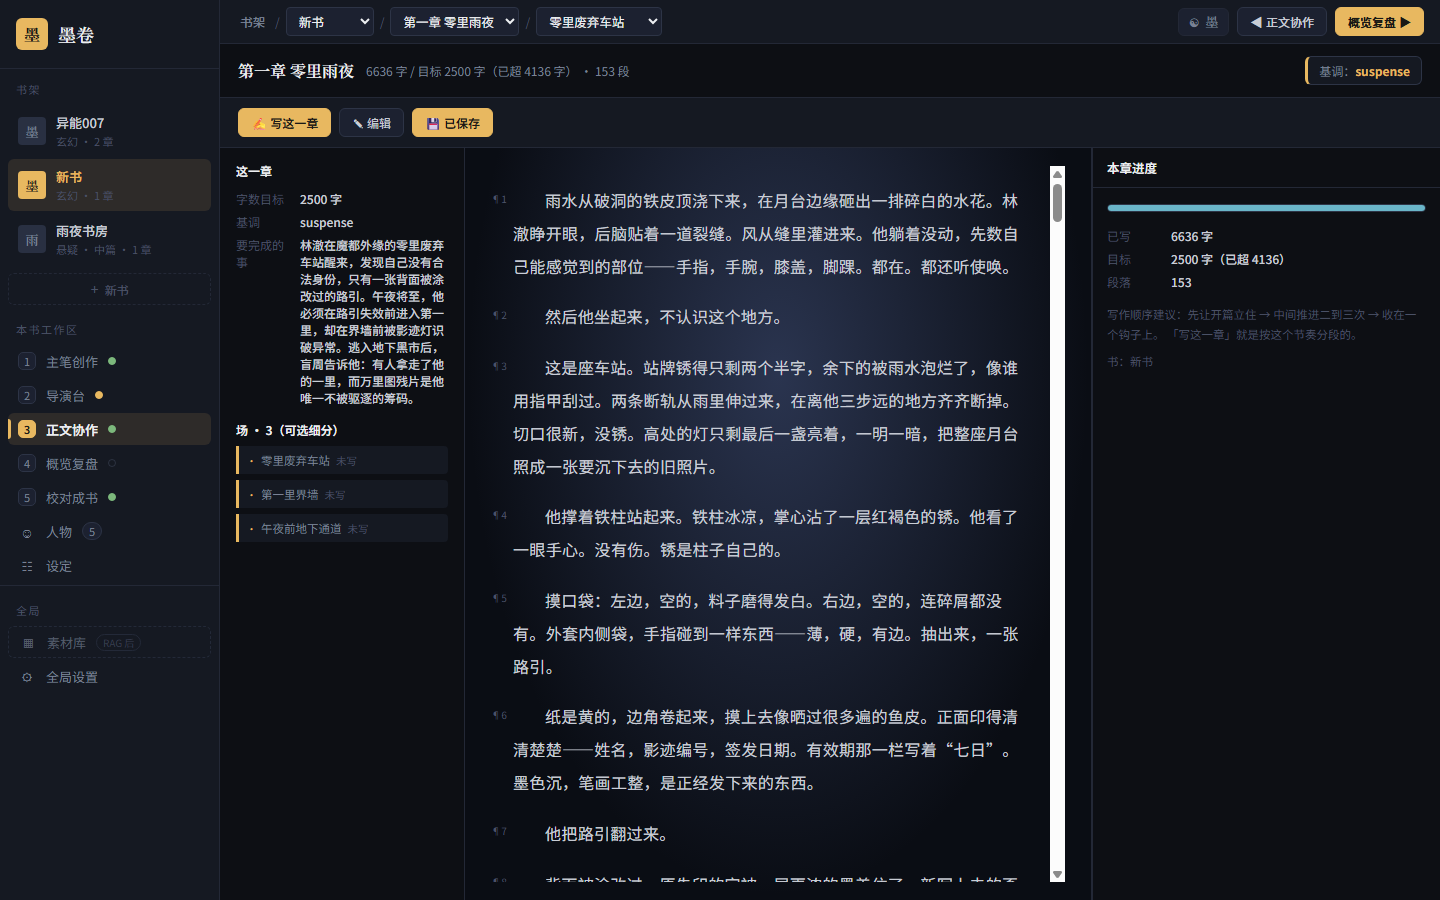
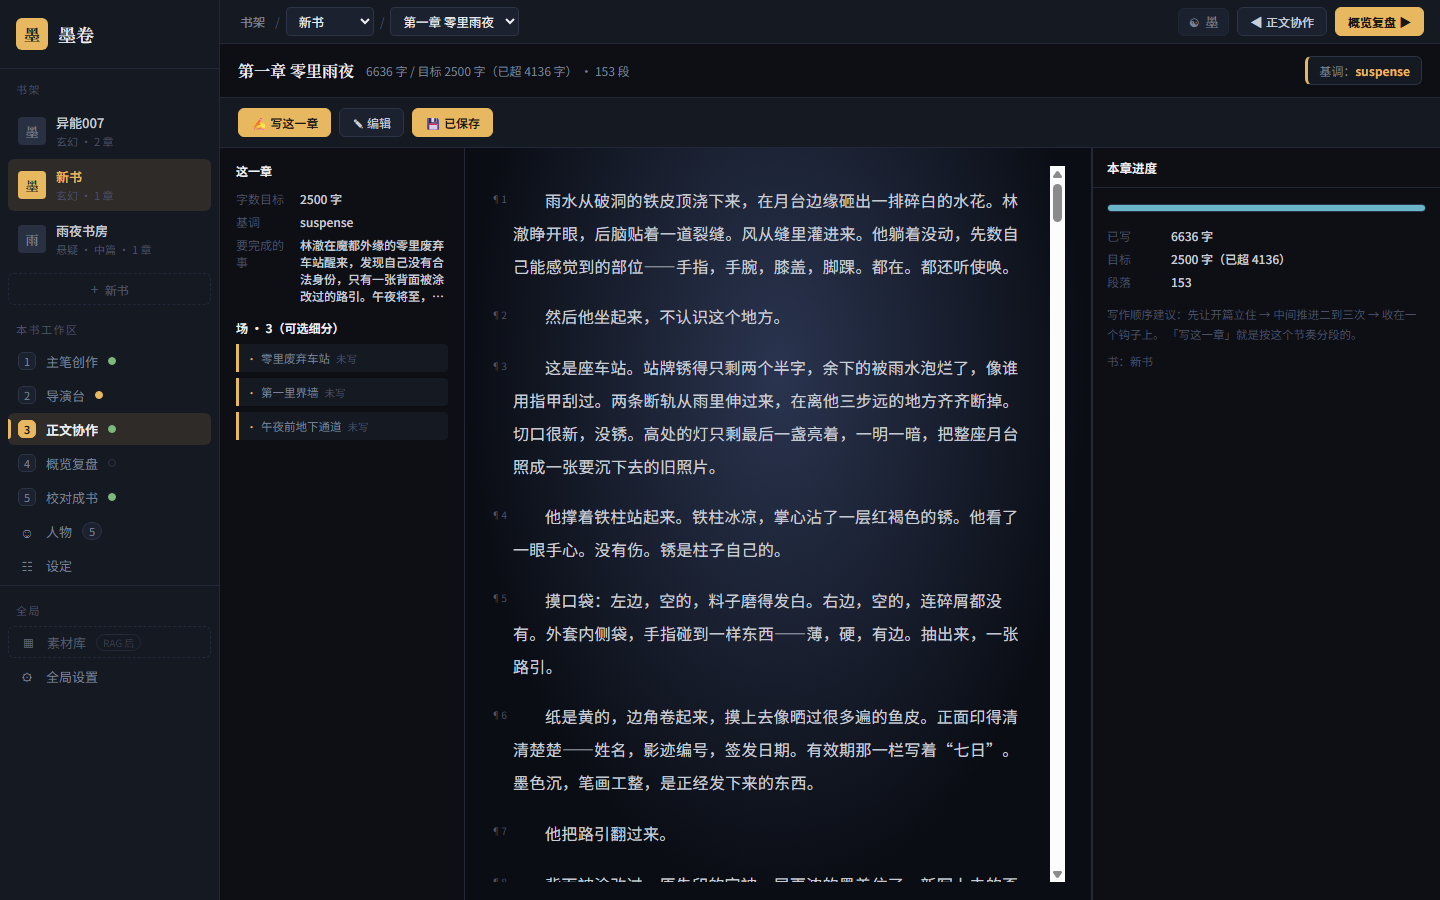
fix(UI): 再看图验收的 4 处（健康分重复 / 章视图面包屑 / 摘要截断 / 金句折叠）
1) 概览顶栏「健康分 88」与 KPI 卡重复 → 去掉顶栏 pill（KPI 卡带环形进度已足够）。
2) 章级写作视图的面包屑里出现「零里废弃车站」—— 章视图不该显示"场"（场只是可选细分）
   → ContextBar 在 step=write 时不渲染场景下拉。
3) 左栏「要完成的事」长段落挤成一团 → 4 行截断（-webkit-line-clamp）+ title 看全文。
4) 金句池 3 张卡把右栏撑满、热力图被挤到下面 → 默认只显示 1 条 + 「展开全部 N 条 ▾」。

顺手让 L3 不再假红：上游账号池熔断时，⑨/⑩ 会识别"回退报告/一个字没产出"并 SKIP
（此前那次 11/13 就是上游中途挂了，而 health.llm.ok 在检查时刻还是 true）。

验收：pytest 269 passed + 1 skipped · tsc 0 · build ok · L3 13/13（⑨⑩ SKIP·上游熔断，⑪⑫ PASS）。
截图：docs/mockups/p3/ink/25-dashboard.png、24-write-chapter.png（已肉眼复核）。

Changed region(s): [[0.1562, 0.3422, 0.3125, 0.5911], [0.375, 0.0, 0.4375, 0.0311]]

diff --git a/frontend/src/pages/DashboardPage.tsx b/frontend/src/pages/DashboardPage.tsx
@@ -25,6 +25,8 @@ export function DashboardPage() {
   const [data, setData] = useState<DashboardData | null>(null);
   const [gview, setGview] = useState<GlobalView | null>(null);
   const [err, setErr] = useState('');
+  /** 金句池默认只展示 1 条（3 条会把右栏撑满，把热力图挤到下面） */
+  const [quotesOpen, setQuotesOpen] = useState(false);
 
   useEffect(() => {
     if (!bookId) {
@@ -87,10 +89,7 @@ export function DashboardPage() {
                 <span>进入导演台</span>
               </button>
             </Link>
-            <span className={`health-badge ${kpi && kpi.health < 60 ? 'warn' : ''}`}>
-              <span className="health-dot"></span>
-              健康分 {kpi?.health ?? '-'}
-            </span>
+            {/* v1.46：健康分已在下方 KPI 卡展示（带环形进度），顶栏不再重复 */}
             <ThemeToggle />
             <div className="user-avatar">作</div>
           </div>
@@ -240,14 +239,21 @@ export function DashboardPage() {
               {!data || data.quotes.length === 0 ? (
                 <EmptyState compact icon="❝" title="暂无金句" desc="写完章/场正文后自动抽取（支持「」与“”对白）。" />
               ) : (
-                <div className="quote-list">
-                  {data.quotes.map((q, i) => (
-                    <div className="quote-item" key={i}>
-                      <p className="quote-text">{q.text}</p>
-                      <span className="quote-author">—— {q.author}</span>
-                    </div>
-                  ))}
-                </div>
+                <>
+                  <div className="quote-list">
+                    {(quotesOpen ? data.quotes : data.quotes.slice(0, 1)).map((q, i) => (
+                      <div className="quote-item" key={i}>
+                        <p className="quote-text">{q.text}</p>
+                        <span className="quote-author">—— {q.author}</span>
+                      </div>
+                    ))}
+                  </div>
+                  {data.quotes.length > 1 && (
+                    <button className="rail-more" onClick={() => setQuotesOpen((v) => !v)}>
+                      {quotesOpen ? '收起 ▴' : `展开全部 ${data.quotes.length} 条 ▾`}
+                    </button>
+                  )}
+                </>
               )}
             </div>
 

diff --git a/frontend/src/styles/workspace.css b/frontend/src/styles/workspace.css
@@ -833,6 +833,26 @@
 }
 .wp-progress-bar { height: 100%; background: var(--accent-cyan); transition: width 0.3s ease; }
 .wp-scene-todo { margin-left: 6px; font-style: normal; font-size: 10.5px; color: var(--text-muted); }
+/* v1.46：金句池展开按钮 + 章摘要截断 */
+.rail-more {
+  width: 100%;
+  margin-top: 8px;
+  padding: 5px 8px;
+  font-family: inherit;
+  font-size: 11.5px;
+  cursor: pointer;
+  color: var(--text-secondary);
+  background: transparent;
+  border: 1px dashed var(--border-light);
+  border-radius: var(--radius-md);
+}
+.rail-more:hover { border-color: var(--accent-primary); color: var(--accent-primary); }
+.wp-summary {
+  display: -webkit-box;
+  -webkit-line-clamp: 4;
+  -webkit-box-orient: vertical;
+  overflow: hidden;
+}
 
 /* 全局张力空态（v1.46）：空的时候不该占掉一整屏高（实测 100px 虚线大空块） */
 /* 全局张力空态（v1.46）：空的时候一行提示即可，别用大空态块占掉一整屏 */

diff --git a/frontend/src/pages/WritePage.tsx b/frontend/src/pages/WritePage.tsx
@@ -146,7 +146,9 @@ export function WritePage() {
               <div className="s2-info-title">这一章</div>
               <div className="s2-kv"><span>字数目标</span><b>{wordTarget > 0 ? `${wordTarget} 字` : '未设（默认 4000）'}</b></div>
               <div className="s2-kv"><span>基调</span><b>{tone || '未定'}</b></div>
-              <div className="s2-kv"><span>要完成的事</span><b>{summary || '未填'}</b></div>
+              <div className="s2-kv"><span>要完成的事</span>
+                <b className="wp-summary" title={summary || '未填'}>{summary || '未填'}</b>
+              </div>
               <div className="s2-info-title" style={{ marginTop: 12 }}>场 · {scenes.length}（可选细分）</div>
               {scenes.length === 0 && <div className="s2-hint">本章没拆场也能写——章就是最小单位。需要推演/细纲时再去主笔或导演台拆场。</div>}
               {scenes.map((s) => (

diff --git a/frontend/src/components/common/ContextBar.tsx b/frontend/src/components/common/ContextBar.tsx
@@ -44,7 +44,8 @@ export function ContextBar({ step }: { step: StepKey }) {
           </>
         )}
 
-        {ws.scenes.length > 0 && (
+        {/* v1.46：章级写作视图不显示「场」——章是最小单位，场只是可选细分（显示出来会误导） */}
+        {step !== 'write' && ws.scenes.length > 0 && (
           <>
             <span className="ws-sep">/</span>
             <select className="ws-sel" value={ws.sceneId} onChange={(e) => ws.setScene(e.target.value)} title="切换场景">
